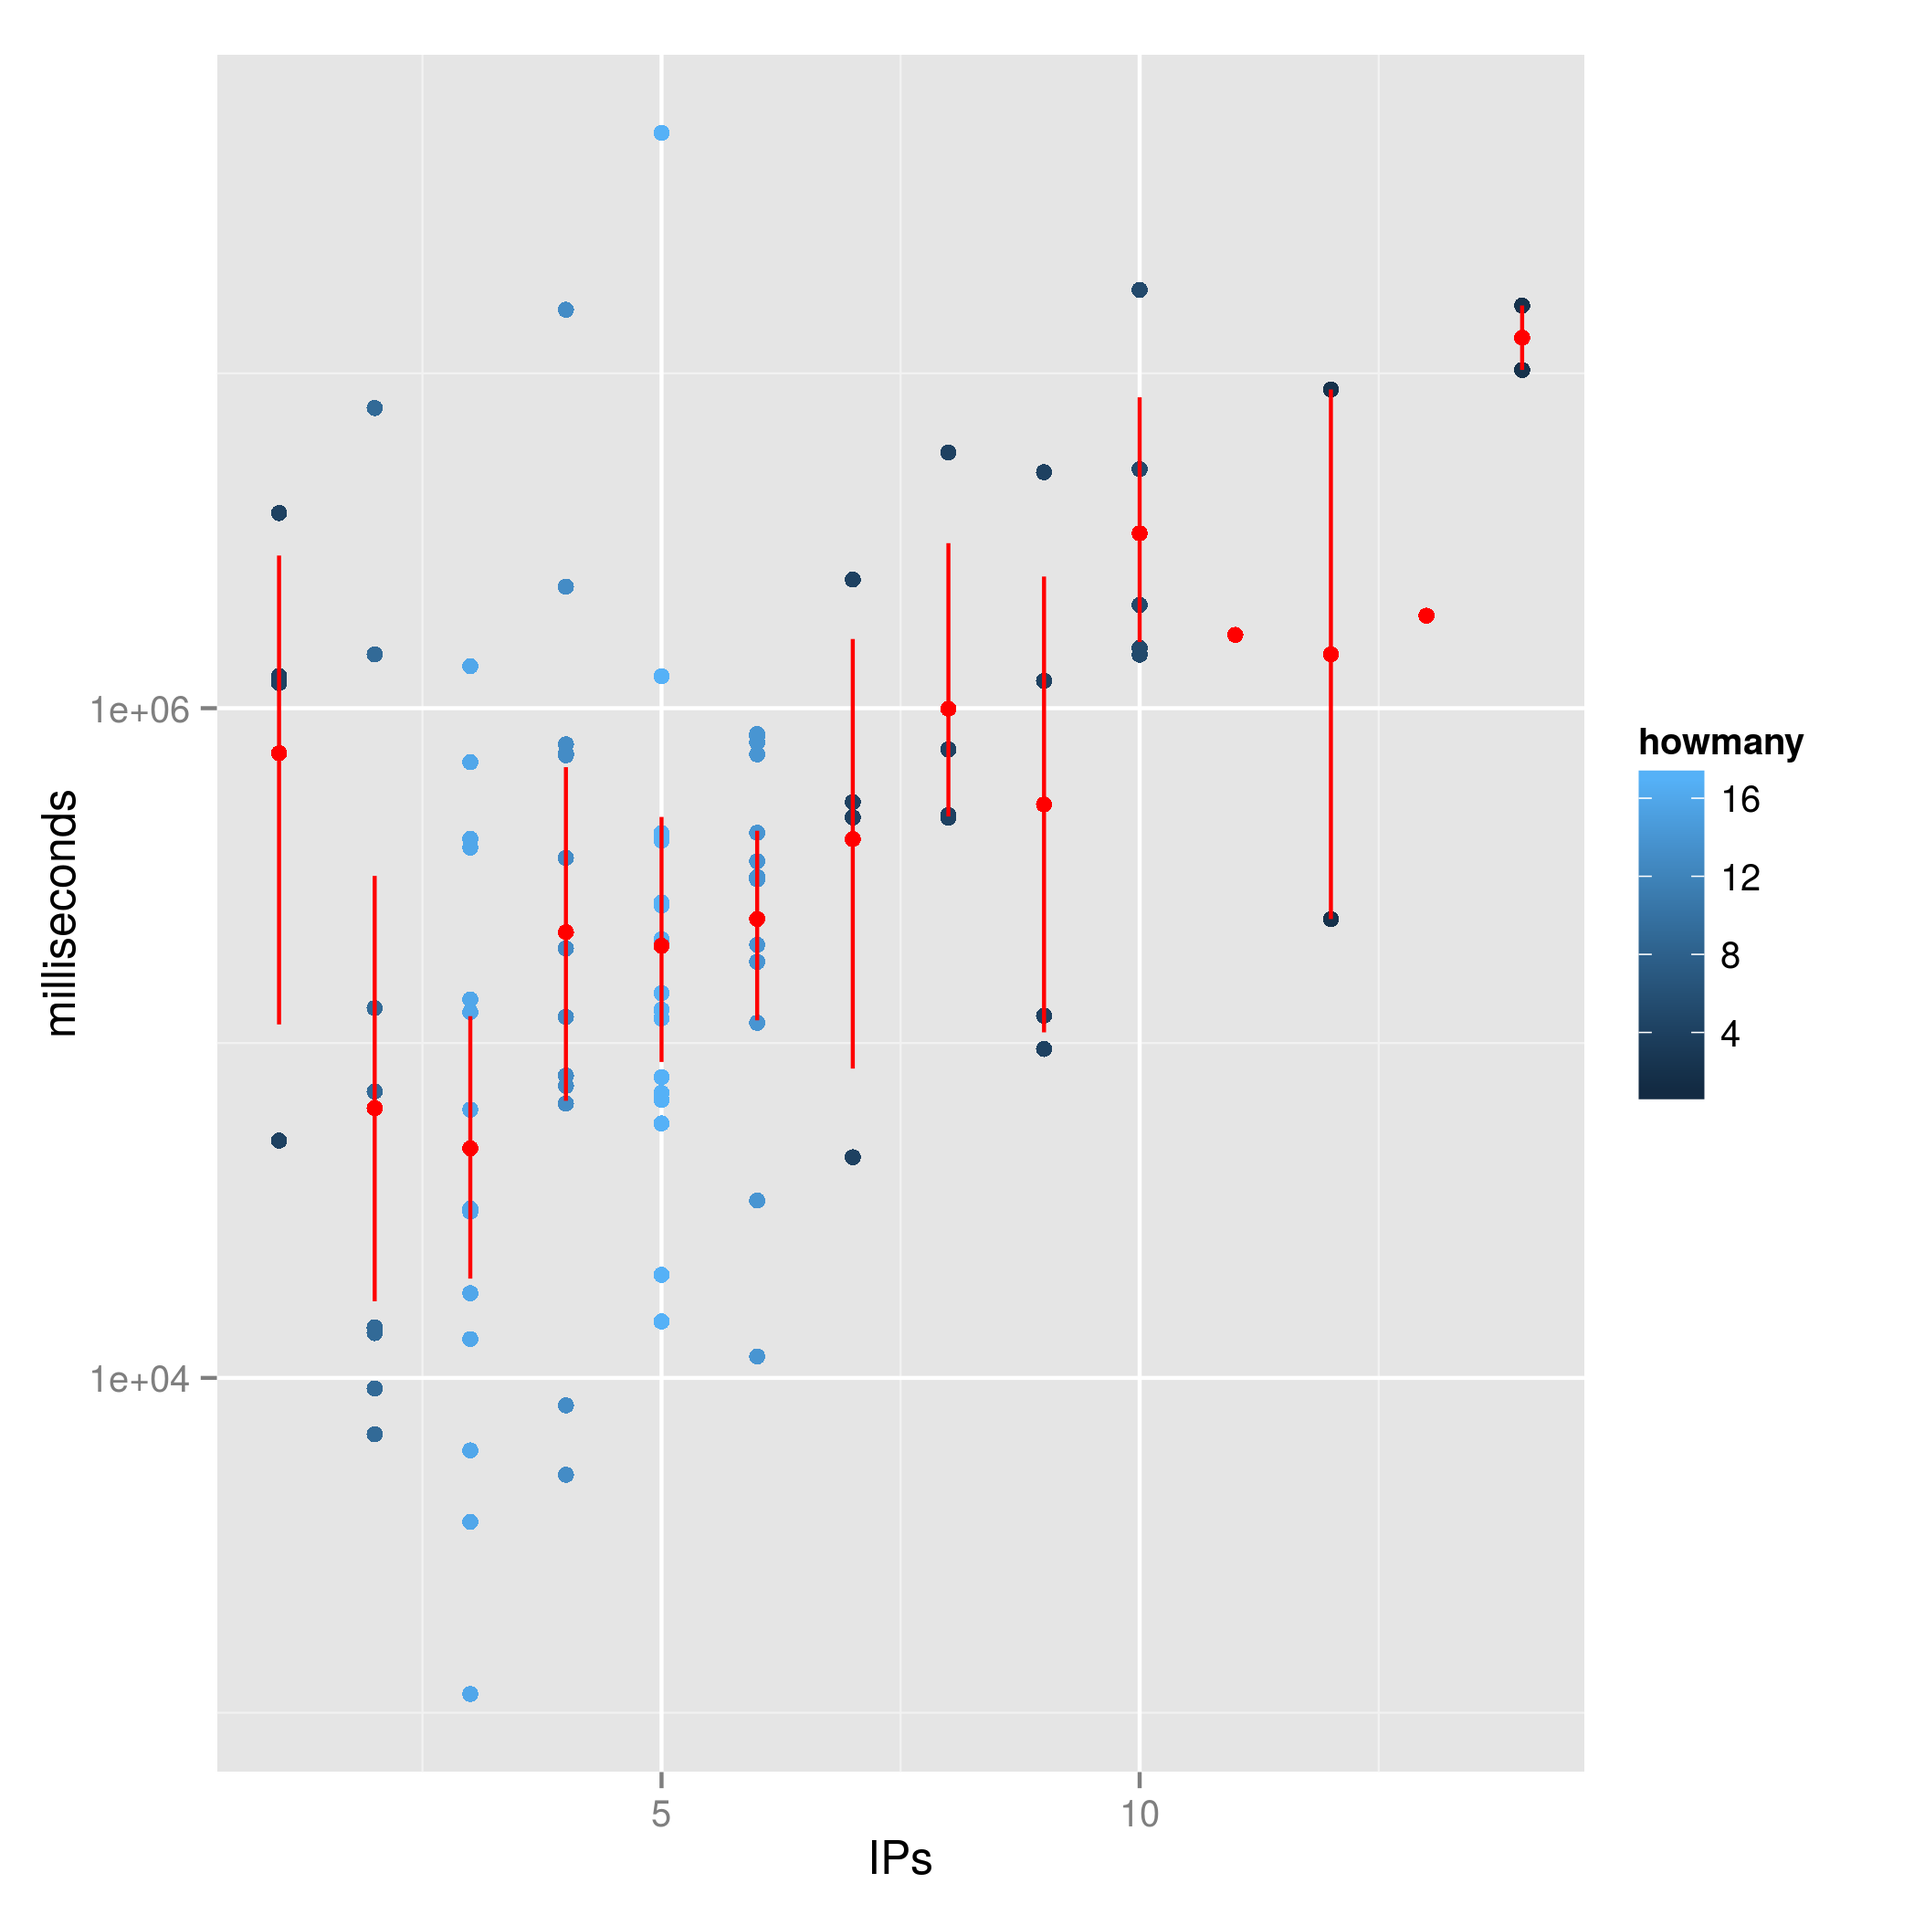
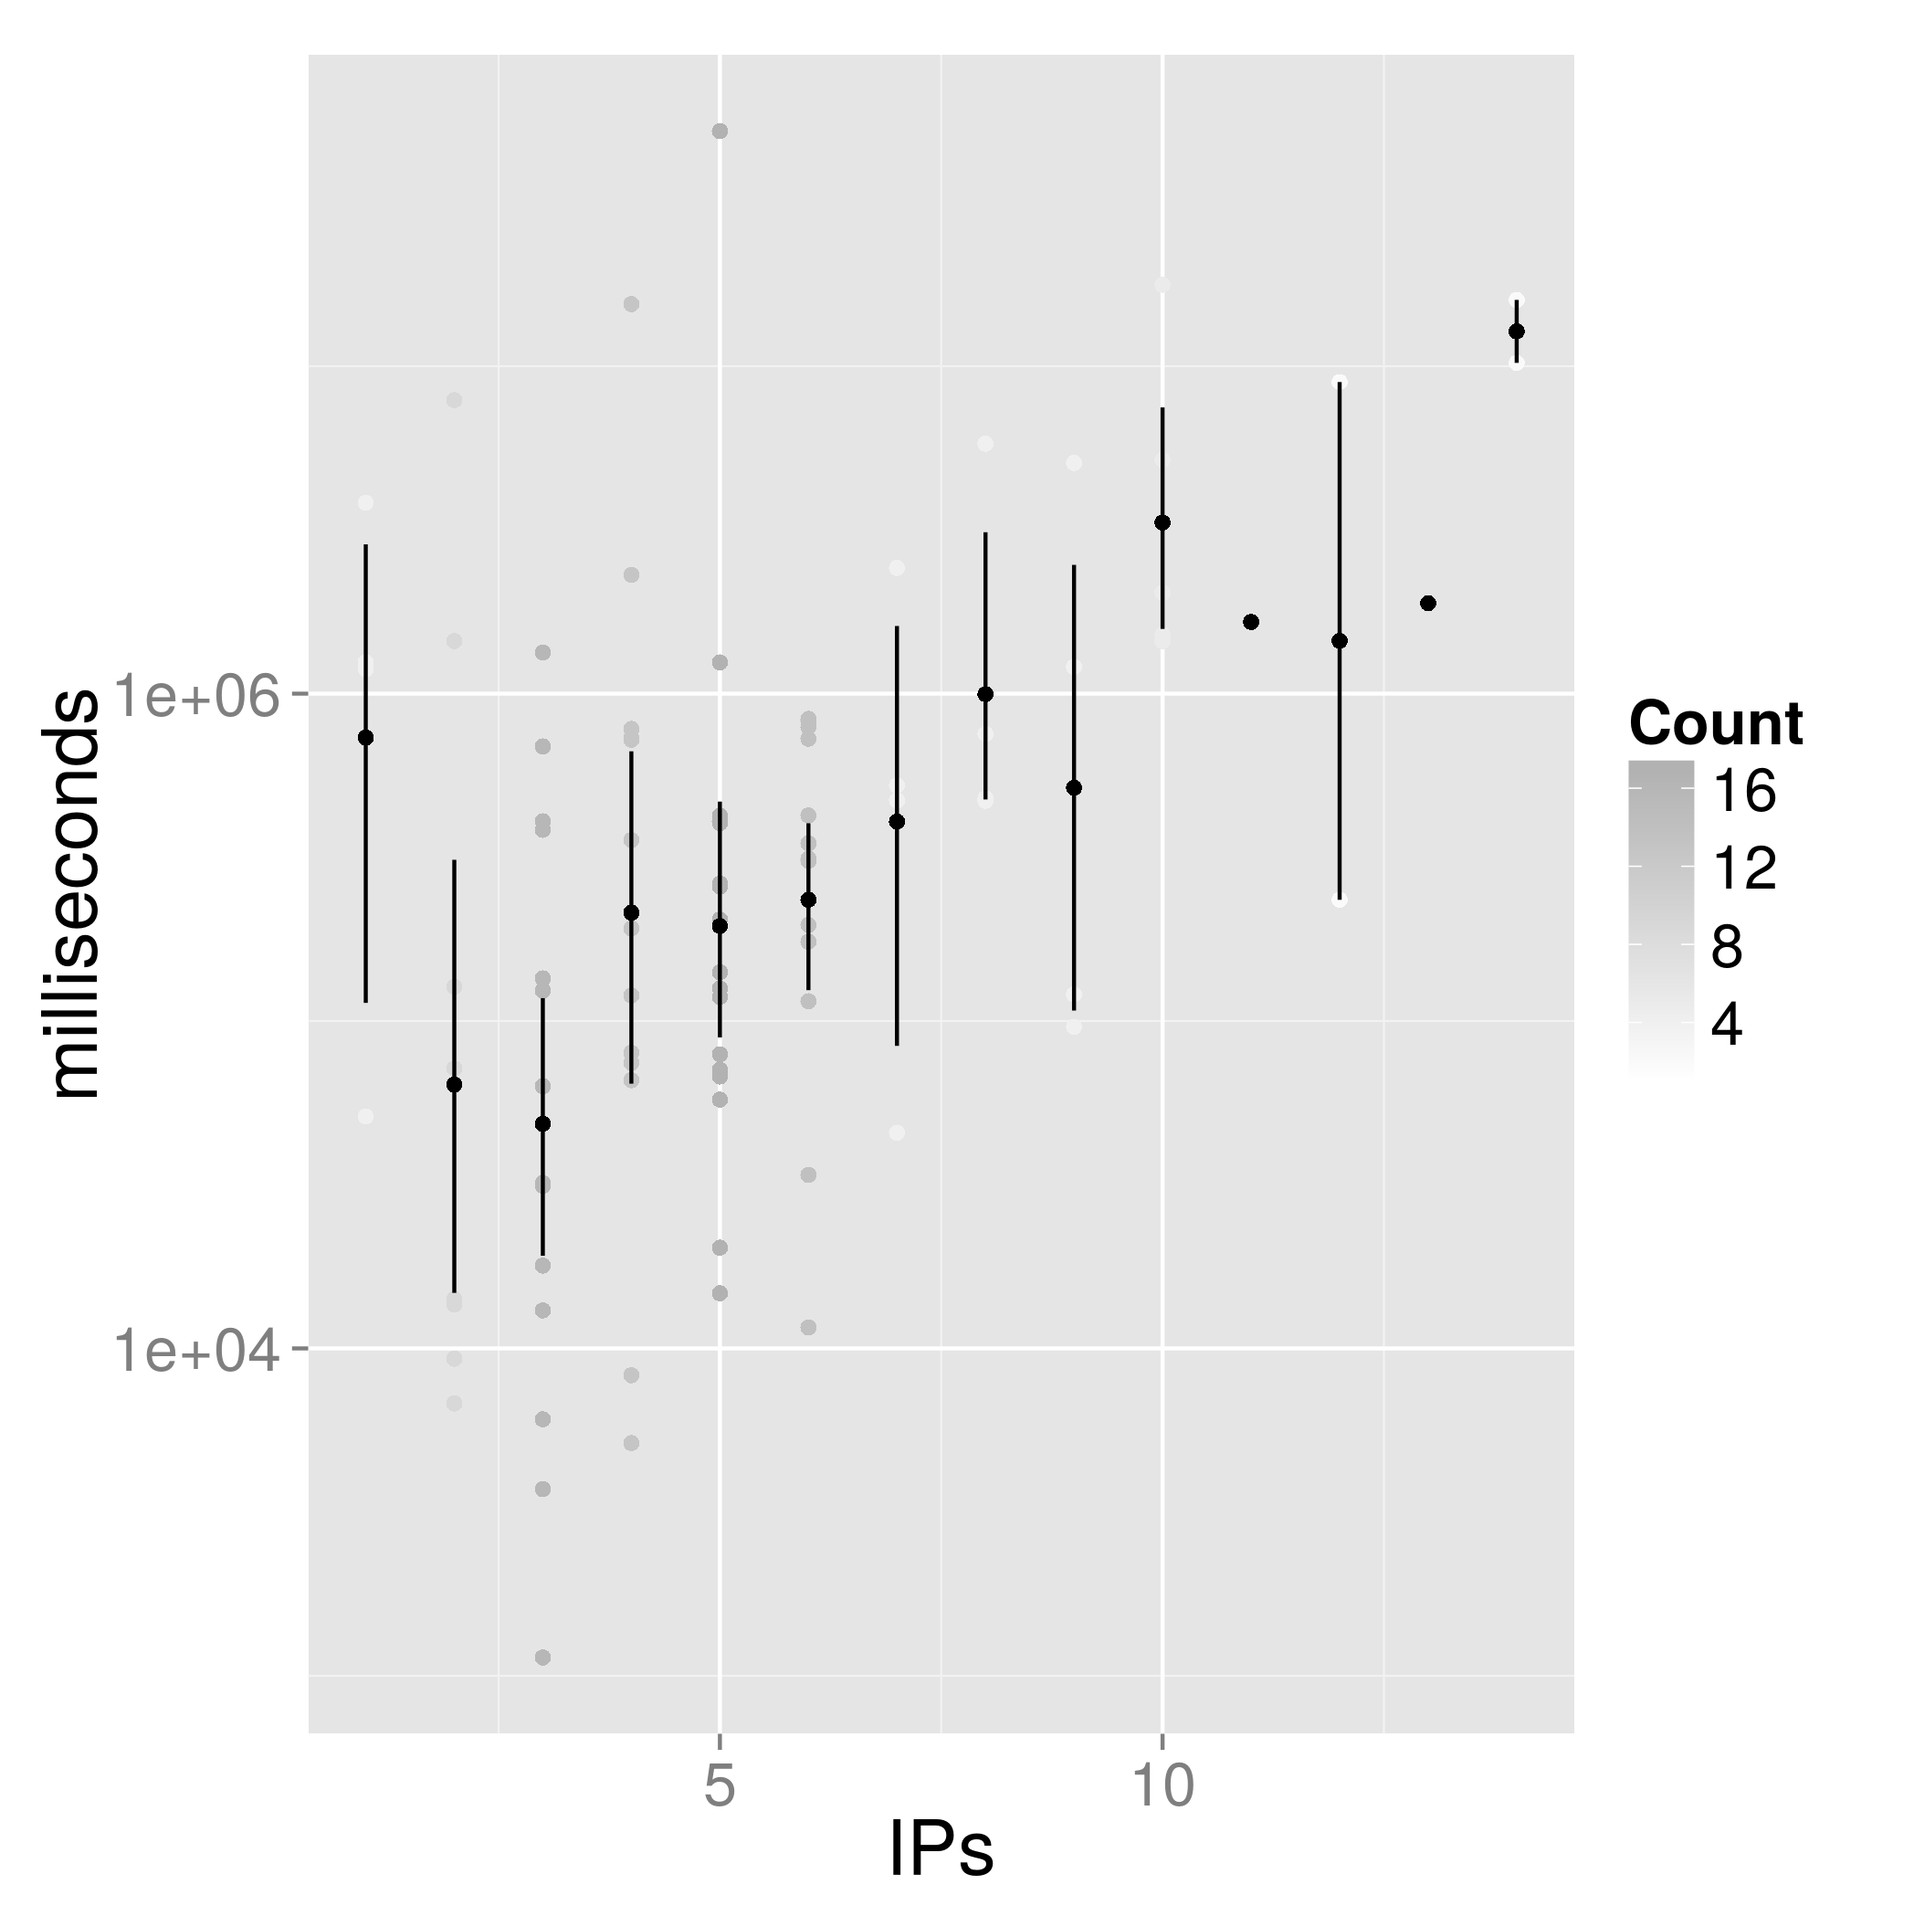
Fixing fig 3 refs #71 #70

diff --git a/special-issue-ci/volunteer-clouds-ieee-ci-si.tex b/special-issue-ci/volunteer-clouds-ieee-ci-si.tex
@@ -790,6 +790,7 @@ of computers happened less frequently, while darker shadow means more frequency.
 From left to right, experiments 4/4, 4/24 and 7/31.}
 \label{fig:duration}
 \end{figure}
+% ../data/time-vs-IPs-openshift.png 
 %
 \begin{figure}[!htb]
 \centering
